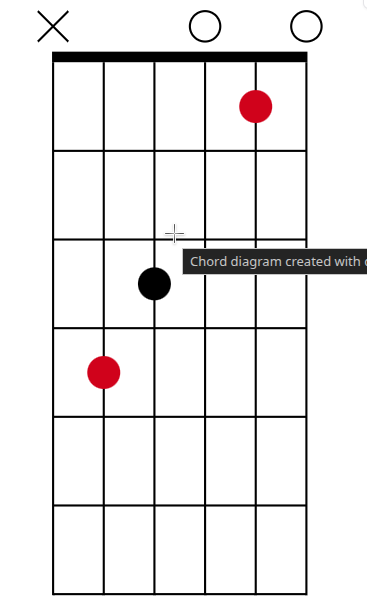
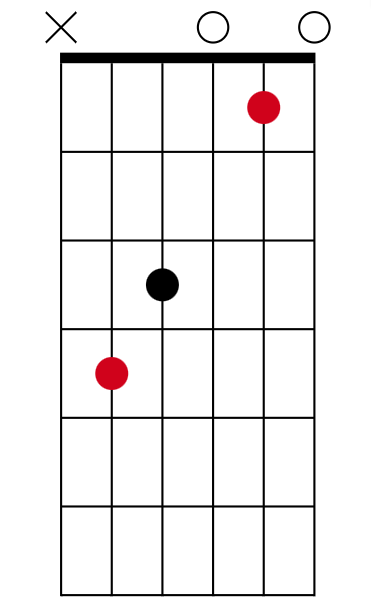
chore: add A shape exercise

Changed region(s): [[0.0899, 0.0, 1.0, 1.0]]

diff --git a/program/8.c_shape_chord.md b/program/8.c_shape_chord.md
@@ -1,10 +1,11 @@
 # Hợp âm hình C
 
 - 1 trong những thế tay cơ bản của guitar là hợp âm hình C
-- Mặc dù trên cần đàn người ta có thể chơi hợp âm C ở rất nhiều vị trí khác nhau, nhưng khi nói đến hình C, thường đây là vị trí mọi người quen thuộc nhất
+- Mặc dù trên cần đàn người ta có thể chơi hợp âm C ở rất nhiều vị trí khác nhau, nhưng khi nói đến hợp âm C, thường đây là vị trí mọi người quen thuộc nhất
 
 
-- Hình dáng: ![](../media/c_shape.png)
+- Hình dáng hợp âm C trưởng: ![](../media/c_shape.png)
+- Nốt màu đỏ là Root note. Trong trường hợp này là nốt C (Đô)
 
 - Tab: [C shape chord](../exercise/c_shape_chord.gp)
 - Video: https://youtu.be/0yid9IATC6M

diff --git a/program/9.a_shape_chord.md b/program/9.a_shape_chord.md
@@ -1,0 +1,18 @@
+# Hợp âm hình A
+
+- 1 trong những thế tay cơ bản của guitar là hợp âm hình A
+- Mặc dù trên cần đàn người ta có thể chơi hợp âm A ở rất nhiều vị trí khác nhau, nhưng khi nói đến hợp âm A, thường đây là vị trí mọi người quen thuộc nhất
+
+
+- Hình dáng hợp âm A trưởng: ![](../media/a_shape.png)
+- Nốt màu đỏ là Root note. Trong trường hợp này là nốt C (Đô)
+
+- Tab: [A shape chord](../exercise/A_shape_chord.gp)
+
+
+## Ta có thể chơi hợp âm C dùng shape A không?
+- Hoàn toàn có thể
+- Ta biét C = A + 3 semitone, vậy chỉ cần dời vị trí A lên 3 ngăn sẽ được hợp âm C
+![](../media/c_chord_a_shape.png)
+
+- Tab [C chord A shape](../exercise/c_chord_a_shape.gp)
